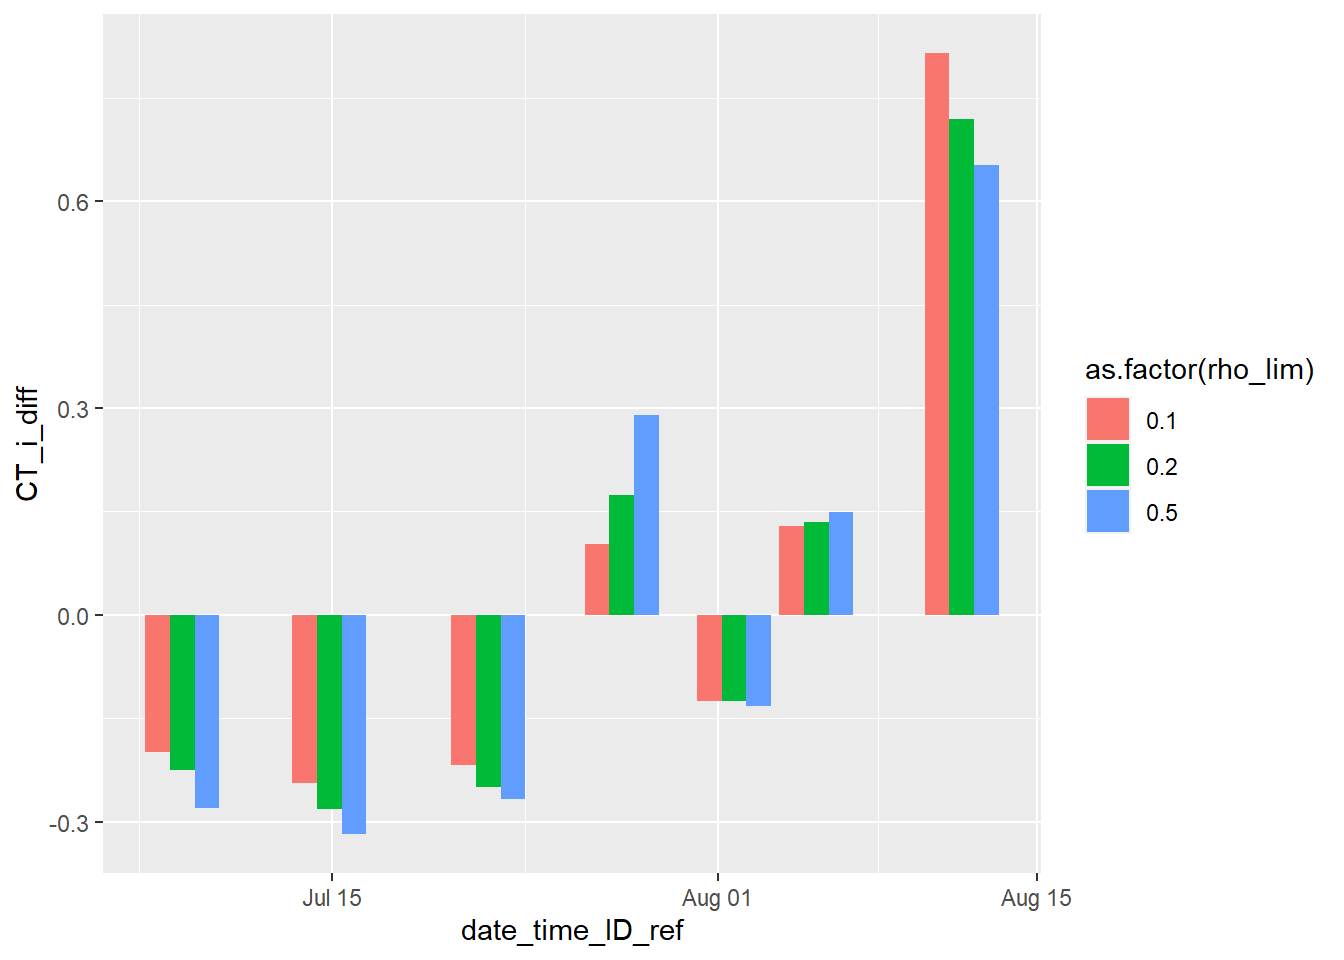
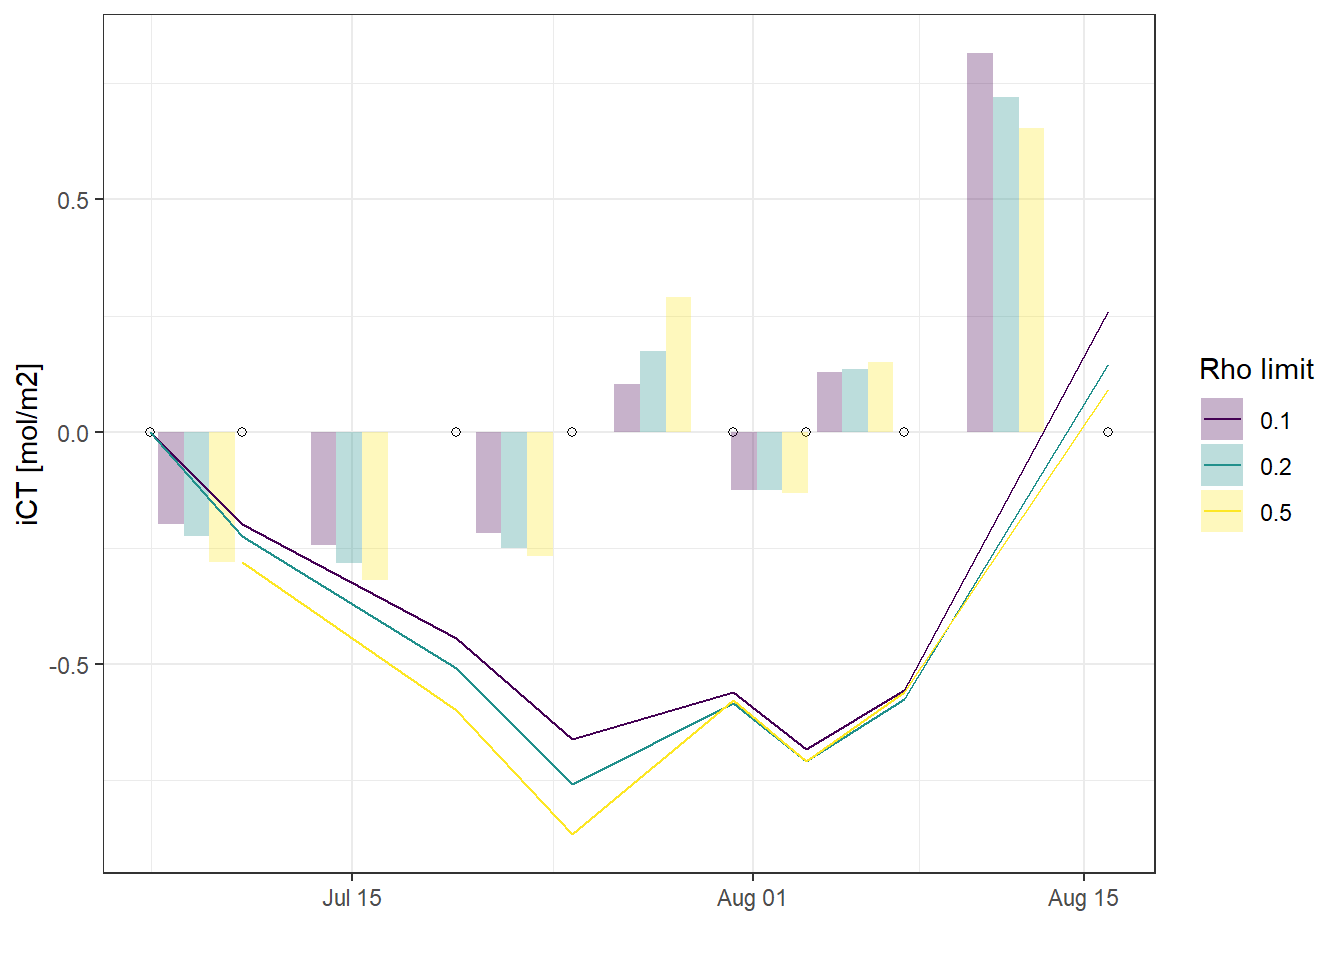
Build site.

diff --git a/docs/CT_dynamics.html b/docs/CT_dynamics.html
@@ -560,10 +560,10 @@ This reproducible <a href="http://rmarkdown.rstudio.com">R Markdown</a> analysis
 <div class="panel panel-default">
 <div class="panel-heading">
 <p class="panel-title">
-<a data-toggle="collapse" data-parent="#workflowr-checks" href="#strongRepositoryversionstrongahrefhttpsgithubcomjensdanielmuellerBloomSailtree93800e0f6c25ea8f8229817b5b81fbd876dc2013targetblank93800e0a"> <span class="glyphicon glyphicon-ok text-success" aria-hidden="true"></span> <strong>Repository version:</strong> <a href="https://github.com/jens-daniel-mueller/BloomSail/tree/93800e0f6c25ea8f8229817b5b81fbd876dc2013" target="_blank">93800e0</a> </a>
+<a data-toggle="collapse" data-parent="#workflowr-checks" href="#strongRepositoryversionstrongahrefhttpsgithubcomjensdanielmuellerBloomSailtree07690b6bd17c5c82870a77d664d89a0d0f2045bdtargetblank07690b6a"> <span class="glyphicon glyphicon-ok text-success" aria-hidden="true"></span> <strong>Repository version:</strong> <a href="https://github.com/jens-daniel-mueller/BloomSail/tree/07690b6bd17c5c82870a77d664d89a0d0f2045bd" target="_blank">07690b6</a> </a>
 </p>
 </div>
[2 lines of base64/hex data omitted]
 <div class="panel-body">
 <p>
 Great! You are using Git for version control. Tracking code development and connecting the code version to the results is critical for reproducibility. The version displayed above was the version of the Git repository at the time these results were generated. <br><br> Note that you need to be careful to ensure that all relevant files for the analysis have been committed to Git prior to generating the results (you can use <code>wflow_publish</code> or <code>wflow_git_commit</code>). workflowr only checks the R Markdown file, but you know if there are other scripts or data files that it depends on. Below is the status of the Git repository when the results were generated:
@@ -1526,11 +1526,7 @@ NCP &lt;- NCP %&gt;%
   summarise(CT_i_diff = sum(value_diff)/1000) %&gt;% 
   ungroup()
 
-NCP %&gt;% 
-  ggplot(aes(date_time_ID_ref, CT_i_diff, fill=as.factor(rho_lim)))+
-  geom_col(position = &quot;dodge&quot;)</code></pre>
-<p><img src="figure/CT_dynamics.Rmd/integrated_NCP_MLD-1.png" width="672" style="display: block; margin: auto;" /></p>
-<pre class="r"><code>NCP &lt;- NCP %&gt;% 
+NCP &lt;- NCP %&gt;% 
   group_by(rho_lim) %&gt;% 
   arrange(date_time_ID) %&gt;% 
   mutate(CT_i_cum = cumsum(CT_i_diff)) %&gt;% 
@@ -1554,10 +1550,13 @@ NCP %&gt;%
   labs(y=&quot;iCT [mol/m2]&quot;, x=&quot;&quot;)+
   #facet_grid(sign~., scales = &quot;free_y&quot;, space = &quot;free_y&quot;)+
   theme_bw()</code></pre>
-<p><img src="figure/CT_dynamics.Rmd/integrated_NCP_MLD-2.png" width="672" style="display: block; margin: auto;" /></p>
+<p><img src="figure/CT_dynamics.Rmd/integrated_NCP_MLD-1.png" width="672" style="display: block; margin: auto;" /></p>
 <pre class="r"><code># NCP %&gt;%
 #   write_csv(here::here(&quot;Data/_merged_data_files&quot;, &quot;NCP_dep_limits.csv&quot;))</code></pre>
 </div>
+</div>
+<div id="air-sea-co2-flux" class="section level2">
+<h2><span class="header-section-number">5.4</span> Air-Sea CO<sub>2</sub> flux</h2>
 </div>
 </div>
 <div id="old-schript-parts" class="section level1">
